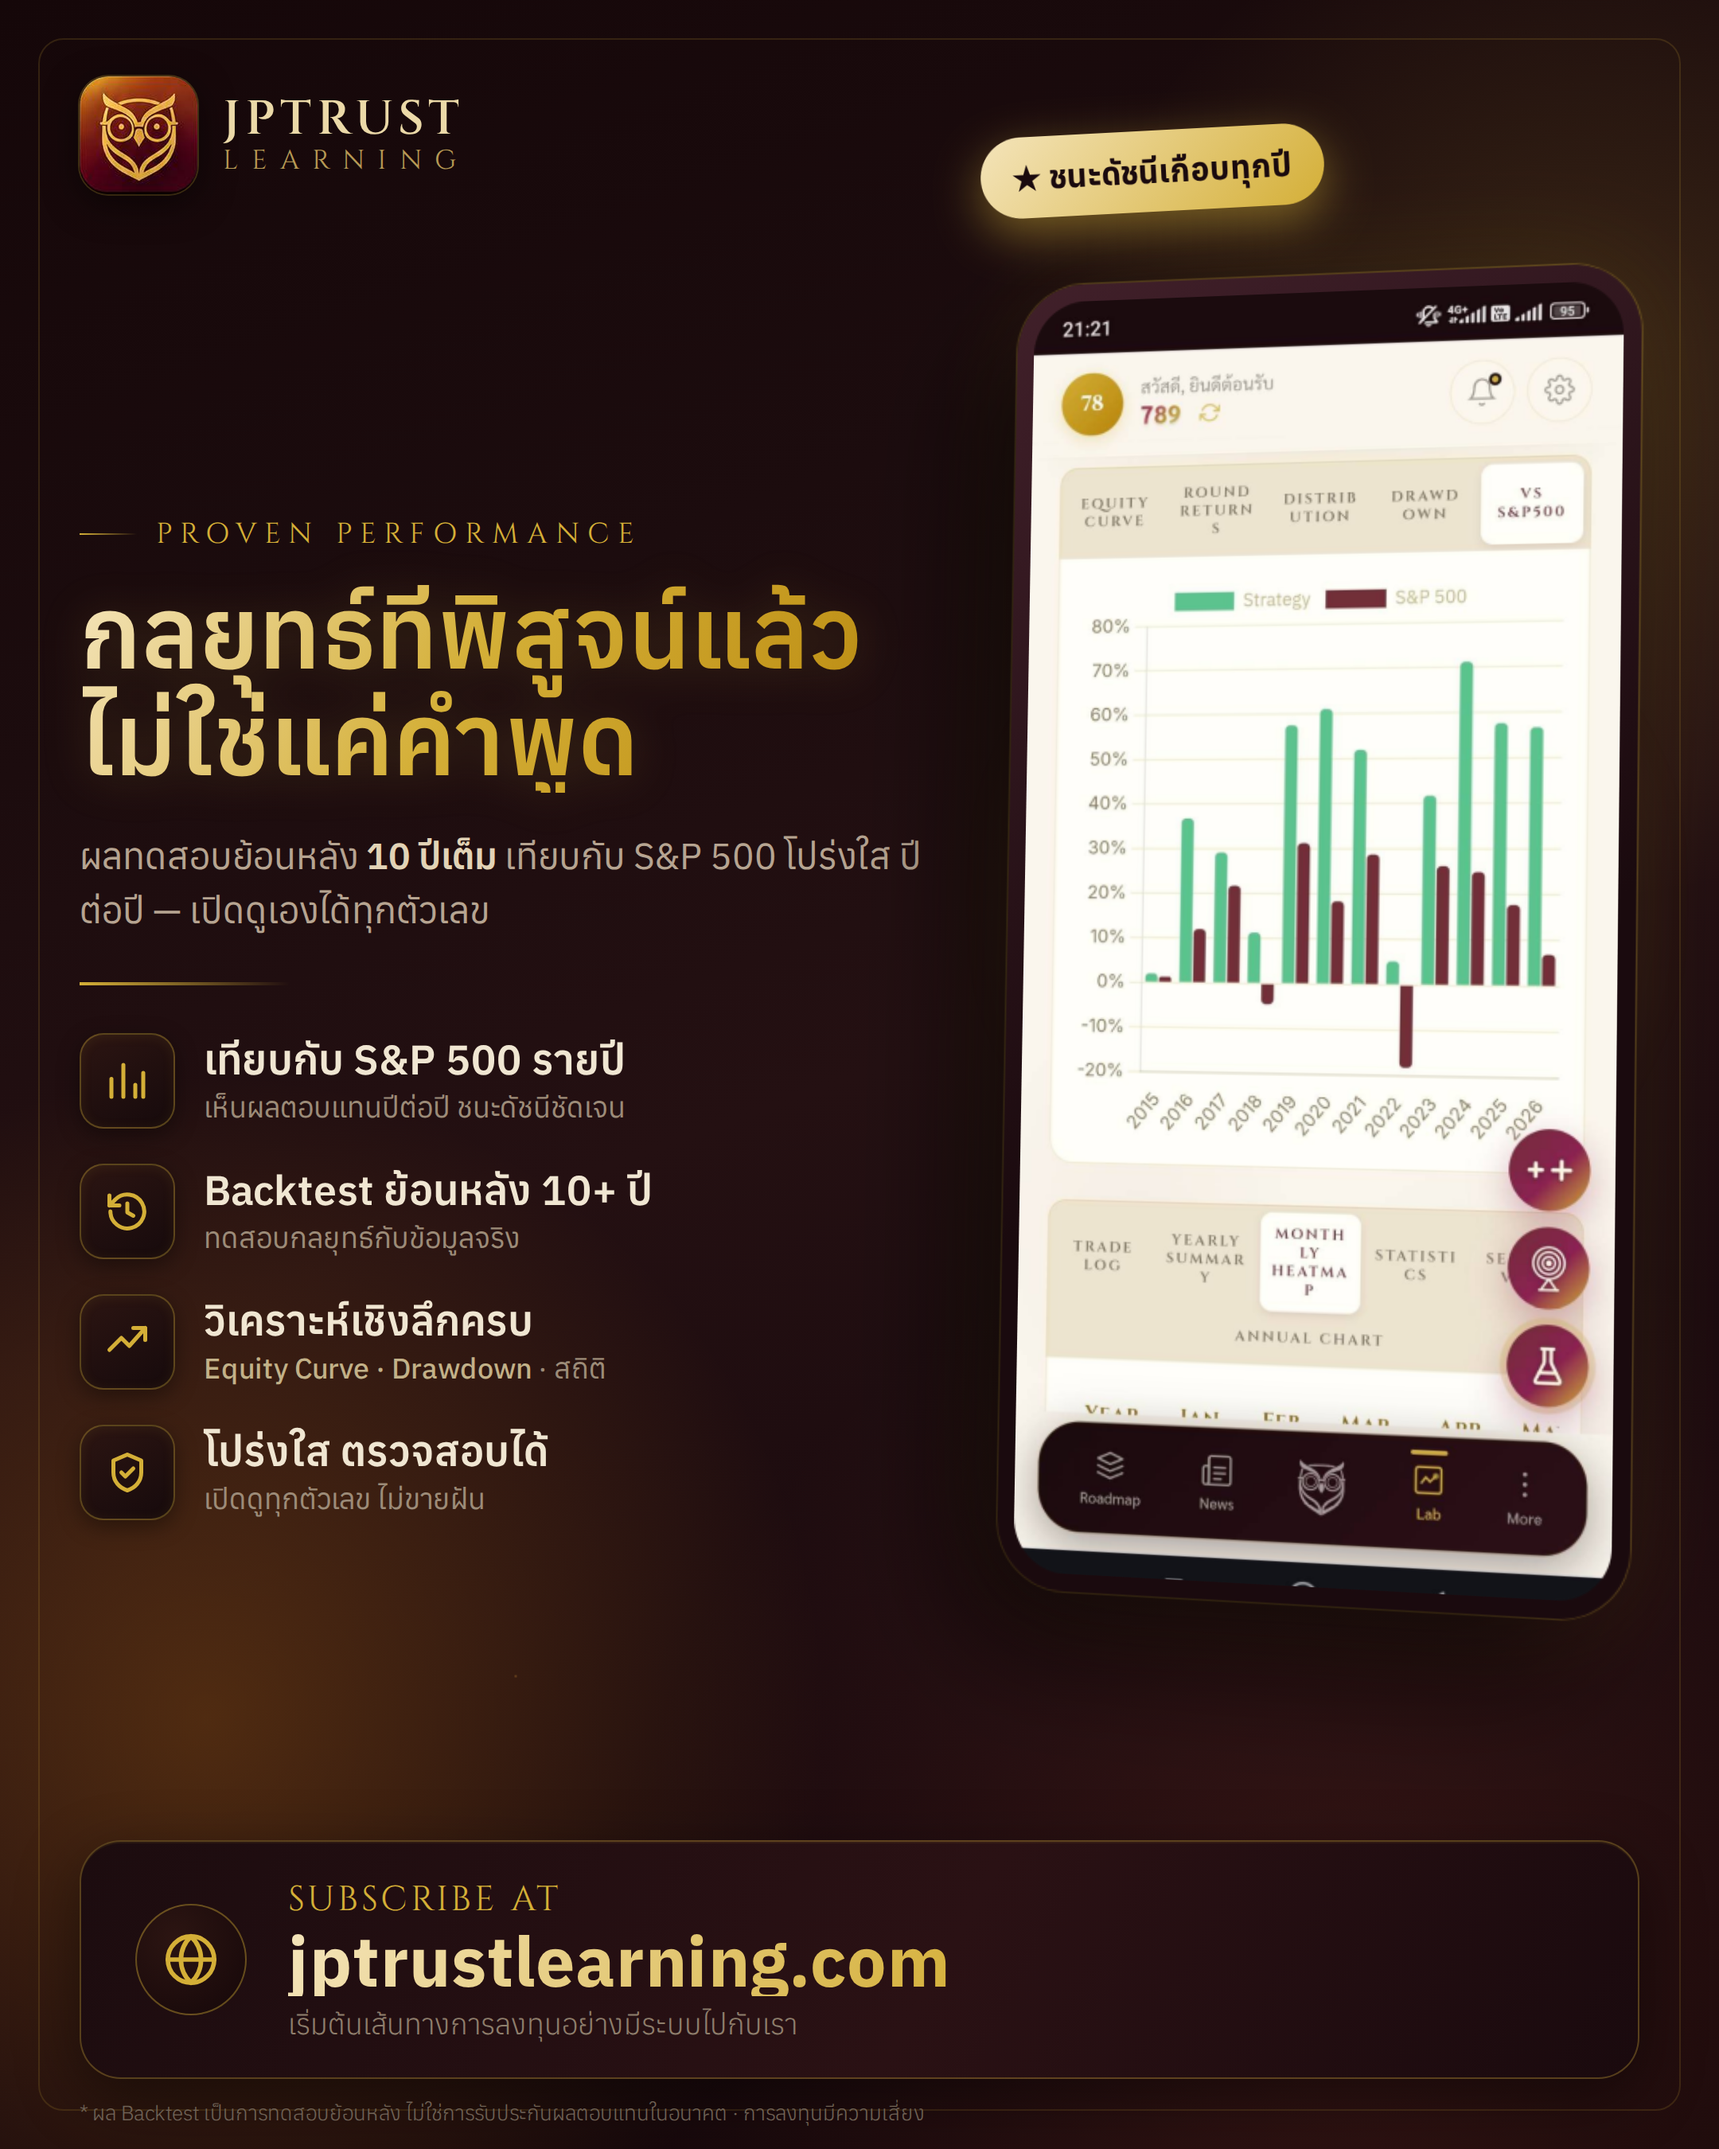
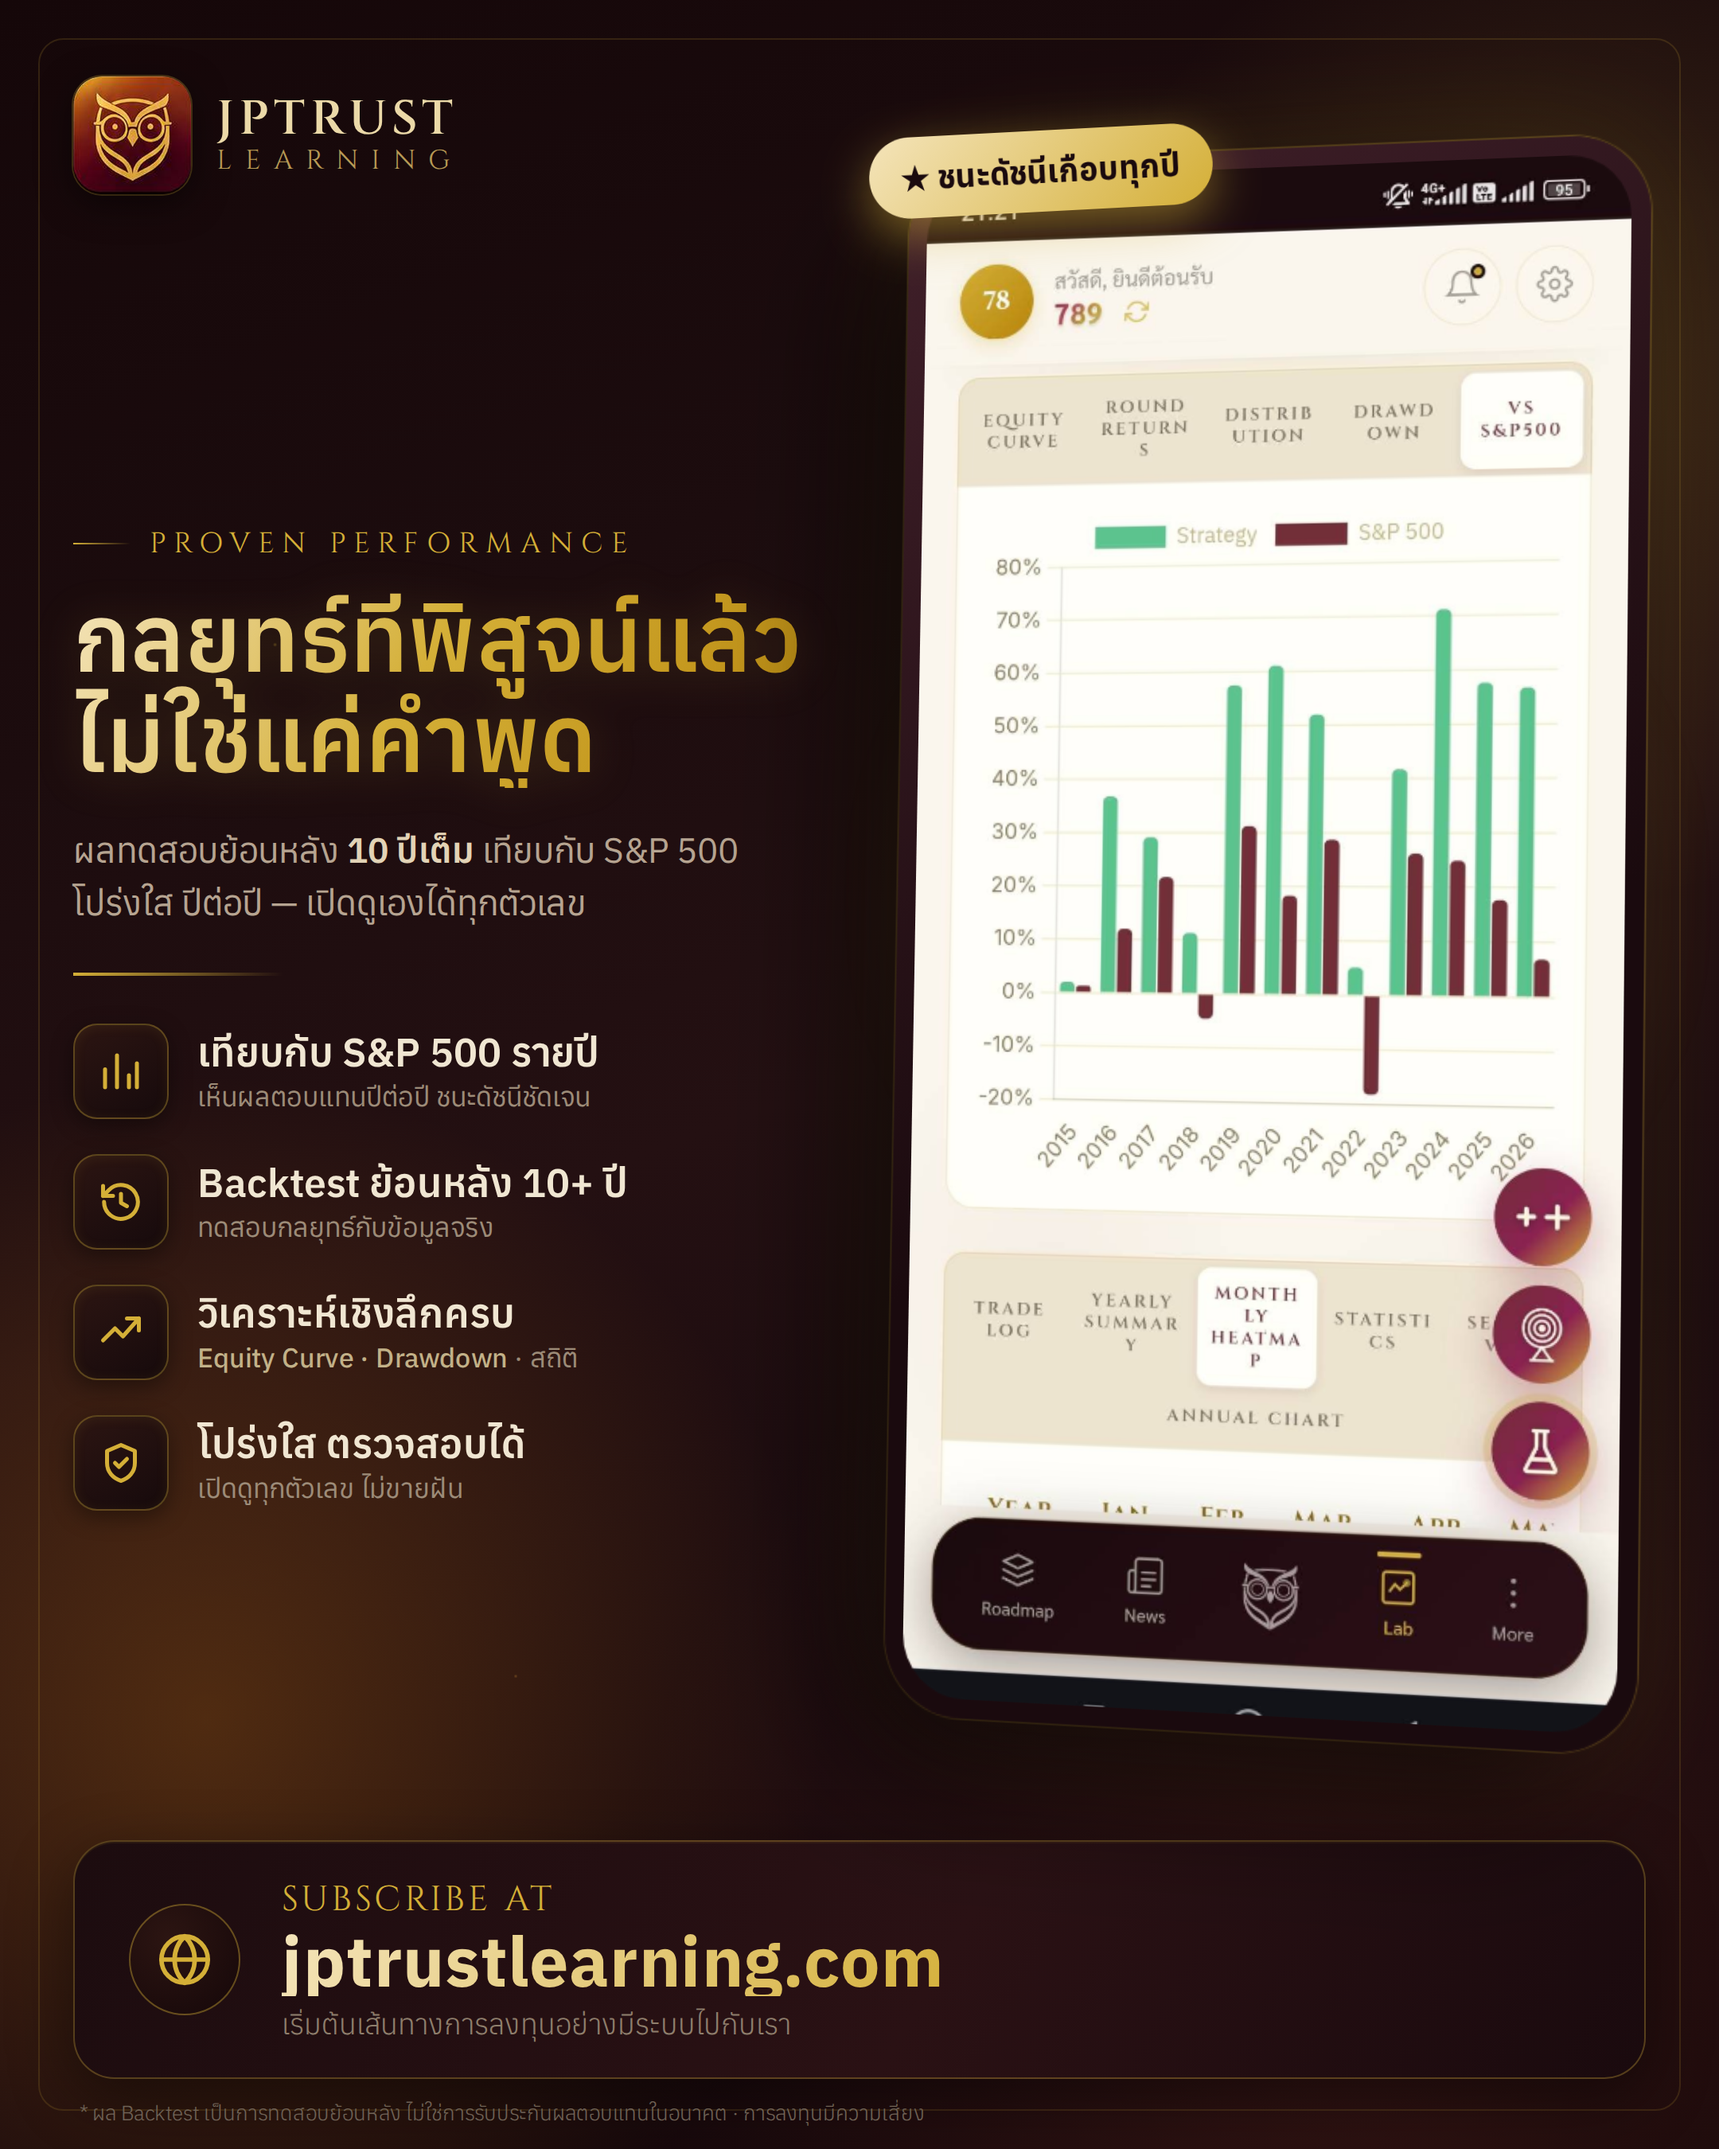
temprender: enlarge phone mockup (Part 1)

diff --git a/temprender/ad1.html b/temprender/ad1.html
@@ -28,8 +28,8 @@ body{font-family:'Anuphan',sans-serif;position:relative;overflow:hidden;
     radial-gradient(1.1px 1.1px at 8% 56%, rgba(212,175,55,.35), transparent);}
 .frame{position:absolute;inset:24px;border:1px solid rgba(212,175,55,.16);border-radius:16px;pointer-events:none}
 
-.wrap{position:absolute;inset:0;padding:48px 50px 44px;display:flex;flex-direction:column}
-.main{flex:1;min-height:0;display:flex;gap:34px}
+.wrap{position:absolute;inset:0;padding:48px 46px 44px;display:flex;flex-direction:column}
+.main{flex:1;min-height:0;display:flex;gap:24px}
 
 /* LEFT */
 .left{flex:1 1 0;min-width:0;display:flex;flex-direction:column}
@@ -42,12 +42,12 @@ body{font-family:'Anuphan',sans-serif;position:relative;overflow:hidden;
 .eyebrow{font-family:'Cinzel',serif;font-size:18px;letter-spacing:5px;color:#D4AF37;
   display:flex;align-items:center;gap:12px;margin-bottom:16px}
 .eyebrow::before{content:"";width:36px;height:1.5px;background:linear-gradient(90deg,#D4AF37,transparent)}
-h1{font-weight:600;font-size:62px;line-height:1.08;letter-spacing:.2px;margin-bottom:22px;
+h1{font-weight:600;font-size:58px;line-height:1.08;letter-spacing:.2px;margin-bottom:22px;
   background:linear-gradient(120deg,#F4E4BA 0%,#D4AF37 45%,#B8860B 100%);
   -webkit-background-clip:text;background-clip:text;-webkit-text-fill-color:transparent;
   filter:drop-shadow(0 2px 14px rgba(212,175,55,.18))}
 .block{margin:auto 0;display:flex;flex-direction:column}
-.sub{font-weight:400;font-size:23px;line-height:1.5;color:#B6A491;max-width:540px}
+.sub{font-weight:400;font-size:22px;line-height:1.5;color:#B6A491;max-width:500px}
 .sub b{color:#E2D3B6;font-weight:600}
 .divider{width:132px;height:2px;background:linear-gradient(90deg,#D4AF37,rgba(212,175,55,0));margin:28px 0 30px}
 .feats{display:flex;flex-direction:column;gap:22px}
@@ -56,21 +56,21 @@ h1{font-weight:600;font-size:62px;line-height:1.08;letter-spacing:.2px;margin-bo
   background:linear-gradient(150deg,#2c1512,#160a0c);border:1px solid rgba(212,175,55,.34);
   box-shadow:inset 0 1px 8px rgba(212,175,55,.08),0 4px 14px rgba(0,0,0,.4)}
 .ftile svg{width:30px;height:30px}
-.ftxt .t{font-weight:600;font-size:26px;color:#F0E6D2;line-height:1.2}
-.ftxt .d{font-weight:400;font-size:18px;color:#9C8B78;line-height:1.32;margin-top:2px}
+.ftxt .t{font-weight:600;font-size:25px;color:#F0E6D2;line-height:1.2}
+.ftxt .d{font-weight:400;font-size:17px;color:#9C8B78;line-height:1.32;margin-top:2px}
 .ftxt .d .en{color:#C2B188;font-weight:500}
 
 /* RIGHT — tilted phone */
-.right{flex:0 0 408px;position:relative;display:flex;align-items:center;justify-content:center}
-.glow{position:absolute;width:430px;height:560px;border-radius:46%;
+.right{flex:0 0 482px;position:relative;display:flex;align-items:center;justify-content:center}
+.glow{position:absolute;width:520px;height:660px;border-radius:46%;
   background:radial-gradient(circle,rgba(212,175,55,.26),transparent 64%);
-  top:48%;left:52%;transform:translate(-50%,-50%);filter:blur(10px)}
-.pwrap{perspective:1700px}
-.phone{position:relative;width:402px;border-radius:44px;padding:11px;
+  top:48%;left:52%;transform:translate(-50%,-50%);filter:blur(12px)}
+.pwrap{perspective:2000px}
+.phone{position:relative;width:478px;border-radius:50px;padding:12px;
   background:linear-gradient(150deg,#41202a,#1a0a0e 58%);
   transform:rotateY(-11deg) rotateX(2deg) rotate(.4deg);transform-style:preserve-3d;
-  box-shadow:-28px 36px 80px rgba(0,0,0,.62),0 0 0 1px rgba(212,175,55,.30),0 0 70px rgba(212,175,55,.12);}
-.phone img{width:100%;display:block;border-radius:34px}
+  box-shadow:-32px 40px 90px rgba(0,0,0,.62),0 0 0 1px rgba(212,175,55,.30),0 0 80px rgba(212,175,55,.13);}
+.phone img{width:100%;display:block;border-radius:40px}
 .badge{position:absolute;top:34px;left:-6px;z-index:5;font-weight:700;font-size:20px;color:#1a0a0e;
   background:linear-gradient(135deg,#F4E4BA,#D4AF37);padding:12px 20px;border-radius:42px;
   box-shadow:0 10px 30px rgba(212,175,55,.5);transform:rotate(-3deg);display:flex;align-items:center;gap:7px}

diff --git a/temprender/build_ad.py b/temprender/build_ad.py
@@ -44,8 +44,8 @@ body{{font-family:'Anuphan',sans-serif;position:relative;overflow:hidden;
     radial-gradient(1.1px 1.1px at 8% 56%, rgba(212,175,55,.35), transparent);}}
 .frame{{position:absolute;inset:24px;border:1px solid rgba(212,175,55,.16);border-radius:16px;pointer-events:none}}
 
-.wrap{{position:absolute;inset:0;padding:48px 50px 44px;display:flex;flex-direction:column}}
-.main{{flex:1;min-height:0;display:flex;gap:34px}}
+.wrap{{position:absolute;inset:0;padding:48px 46px 44px;display:flex;flex-direction:column}}
+.main{{flex:1;min-height:0;display:flex;gap:24px}}
 
 /* LEFT */
 .left{{flex:1 1 0;min-width:0;display:flex;flex-direction:column}}
@@ -58,12 +58,12 @@ body{{font-family:'Anuphan',sans-serif;position:relative;overflow:hidden;
 .eyebrow{{font-family:'Cinzel',serif;font-size:18px;letter-spacing:5px;color:#D4AF37;
   display:flex;align-items:center;gap:12px;margin-bottom:16px}}
 .eyebrow::before{{content:"";width:36px;height:1.5px;background:linear-gradient(90deg,#D4AF37,transparent)}}
-h1{{font-weight:600;font-size:62px;line-height:1.08;letter-spacing:.2px;margin-bottom:22px;
+h1{{font-weight:600;font-size:58px;line-height:1.08;letter-spacing:.2px;margin-bottom:22px;
   background:linear-gradient(120deg,#F4E4BA 0%,#D4AF37 45%,#B8860B 100%);
   -webkit-background-clip:text;background-clip:text;-webkit-text-fill-color:transparent;
   filter:drop-shadow(0 2px 14px rgba(212,175,55,.18))}}
 .block{{margin:auto 0;display:flex;flex-direction:column}}
-.sub{{font-weight:400;font-size:23px;line-height:1.5;color:#B6A491;max-width:540px}}
+.sub{{font-weight:400;font-size:22px;line-height:1.5;color:#B6A491;max-width:500px}}
 .sub b{{color:#E2D3B6;font-weight:600}}
 .divider{{width:132px;height:2px;background:linear-gradient(90deg,#D4AF37,rgba(212,175,55,0));margin:28px 0 30px}}
 .feats{{display:flex;flex-direction:column;gap:22px}}
@@ -72,21 +72,21 @@ h1{{font-weight:600;font-size:62px;line-height:1.08;letter-spacing:.2px;margin-b
   background:linear-gradient(150deg,#2c1512,#160a0c);border:1px solid rgba(212,175,55,.34);
   box-shadow:inset 0 1px 8px rgba(212,175,55,.08),0 4px 14px rgba(0,0,0,.4)}}
 .ftile svg{{width:30px;height:30px}}
-.ftxt .t{{font-weight:600;font-size:26px;color:#F0E6D2;line-height:1.2}}
-.ftxt .d{{font-weight:400;font-size:18px;color:#9C8B78;line-height:1.32;margin-top:2px}}
+.ftxt .t{{font-weight:600;font-size:25px;color:#F0E6D2;line-height:1.2}}
+.ftxt .d{{font-weight:400;font-size:17px;color:#9C8B78;line-height:1.32;margin-top:2px}}
 .ftxt .d .en{{color:#C2B188;font-weight:500}}
 
 /* RIGHT — tilted phone */
-.right{{flex:0 0 408px;position:relative;display:flex;align-items:center;justify-content:center}}
-.glow{{position:absolute;width:430px;height:560px;border-radius:46%;
+.right{{flex:0 0 482px;position:relative;display:flex;align-items:center;justify-content:center}}
+.glow{{position:absolute;width:520px;height:660px;border-radius:46%;
   background:radial-gradient(circle,rgba(212,175,55,.26),transparent 64%);
-  top:48%;left:52%;transform:translate(-50%,-50%);filter:blur(10px)}}
-.pwrap{{perspective:1700px}}
-.phone{{position:relative;width:402px;border-radius:44px;padding:11px;
+  top:48%;left:52%;transform:translate(-50%,-50%);filter:blur(12px)}}
+.pwrap{{perspective:2000px}}
+.phone{{position:relative;width:478px;border-radius:50px;padding:12px;
   background:linear-gradient(150deg,#41202a,#1a0a0e 58%);
   transform:rotateY(-11deg) rotateX(2deg) rotate(.4deg);transform-style:preserve-3d;
-  box-shadow:-28px 36px 80px rgba(0,0,0,.62),0 0 0 1px rgba(212,175,55,.30),0 0 70px rgba(212,175,55,.12);}}
-.phone img{{width:100%;display:block;border-radius:34px}}
+  box-shadow:-32px 40px 90px rgba(0,0,0,.62),0 0 0 1px rgba(212,175,55,.30),0 0 80px rgba(212,175,55,.13);}}
+.phone img{{width:100%;display:block;border-radius:40px}}
 .badge{{position:absolute;top:34px;left:-6px;z-index:5;font-weight:700;font-size:20px;color:#1a0a0e;
   background:linear-gradient(135deg,#F4E4BA,#D4AF37);padding:12px 20px;border-radius:42px;
   box-shadow:0 10px 30px rgba(212,175,55,.5);transform:rotate(-3deg);display:flex;align-items:center;gap:7px}}
